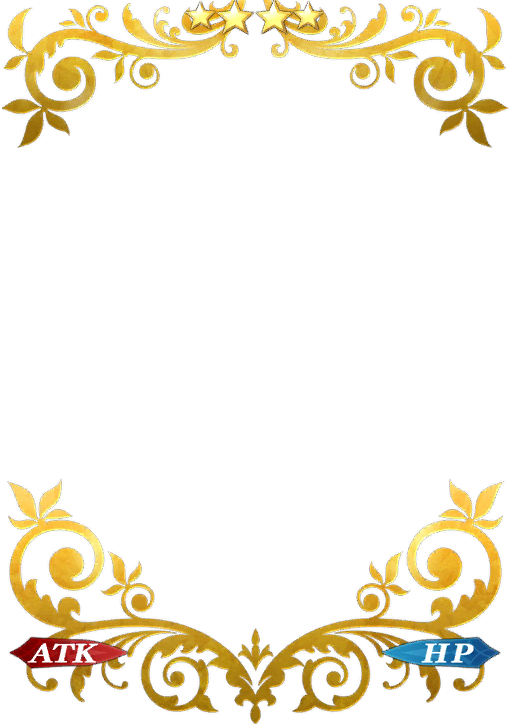
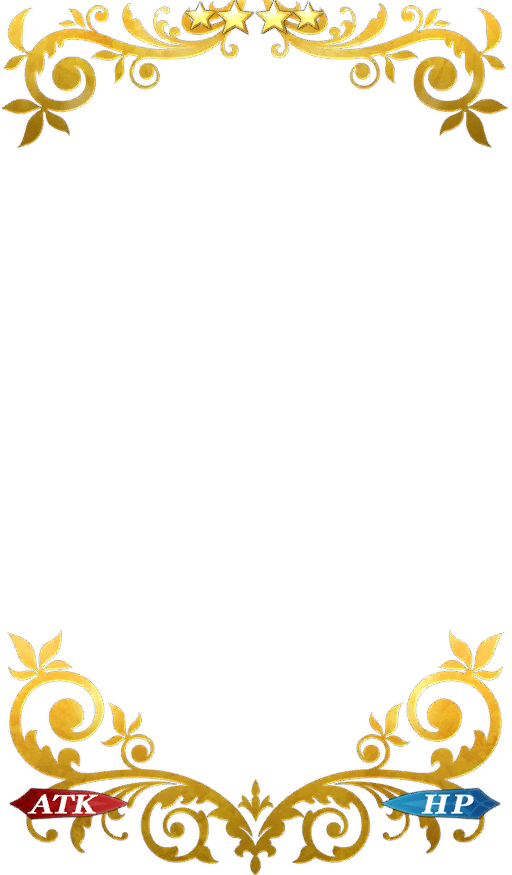
finalize card generator

Changed region(s): [[0.0, 0.6685, 1.0, 1.0], [0.0, 0.0, 1.0, 0.2127]]

diff --git a/fgo.html b/fgo.html
@@ -129,7 +129,6 @@
       let HP = document.getElementById("HP").value || 0;
       let y = [727, 732, 753, 830];
       if (CE) {
-        y = y.map(item => { return item - 120; });
         ATK = "+" + ATK;
         HP = "+" + HP;
       }
@@ -182,9 +181,6 @@
     function get_pic(id)
     {
       const canvas = document.getElementById(id);
-      if (!document.getElementById("toggle").checked) {
-        canvas.setAttribute('height', 730);
-      }
       const content = canvas.getContext("2d");
       content.clearRect(0, 0, canvas.width, canvas.height);
       const img_logo = new Image();
@@ -245,8 +241,8 @@
         preLoadImg(img_frame.src);
         img_frame.onload = function()
         {
-          content.drawImage(img_hero,0,0,500,730);
-          content.drawImage(img_frame,0,0,500,730);
+          content.drawImage(img_hero,0,0,500,850);
+          content.drawImage(img_frame,0,0,500,850);
           put_text(canvas, content, Hero_name, Hero_class, true);
         }
       }
